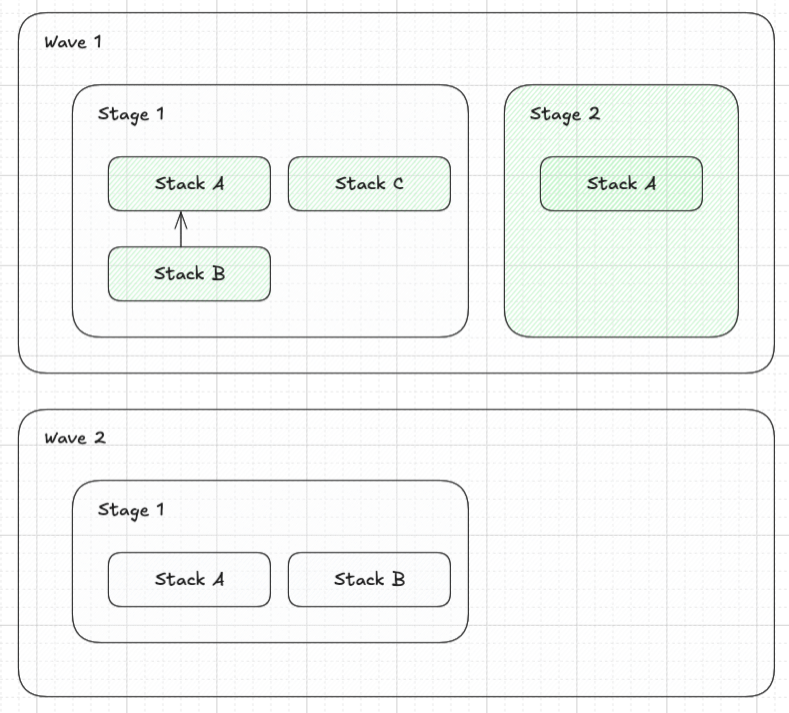
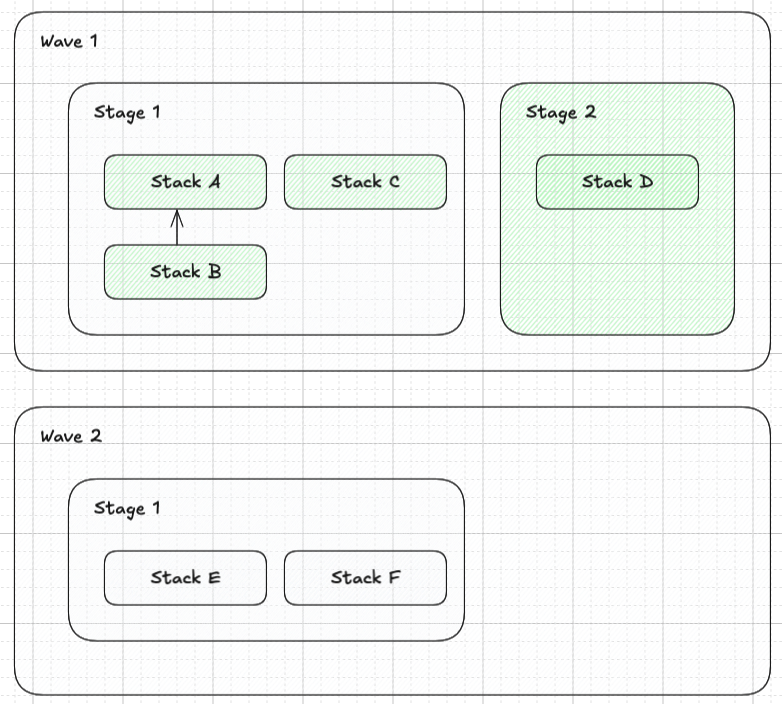
docs: update images and readme

diff --git a/README.md b/README.md
@@ -61,10 +61,10 @@ following stack IDs:
 Wave1_Stage1_StackA
 Wave1_Stage1_StackB
 Wave1_Stage1_StackC
-Wave1_Stage2_StackA
+Wave1_Stage2_StackD
 
-Wave2_Stage1_StackA
-Wave2_Stage1_StackB
+Wave2_Stage1_StackE
+Wave2_Stage1_StackF
 ```
 
 It makes targeted deployments easy:
